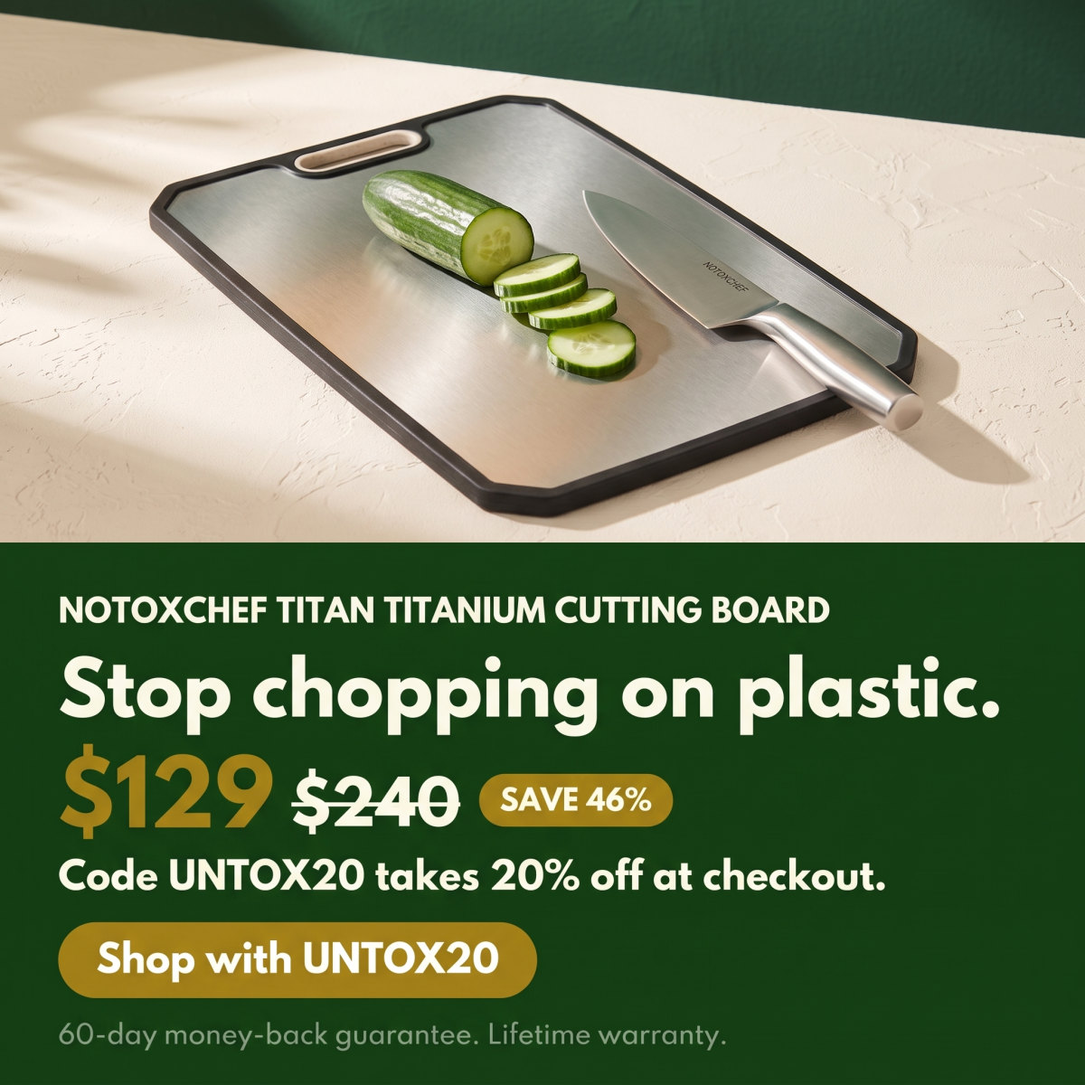
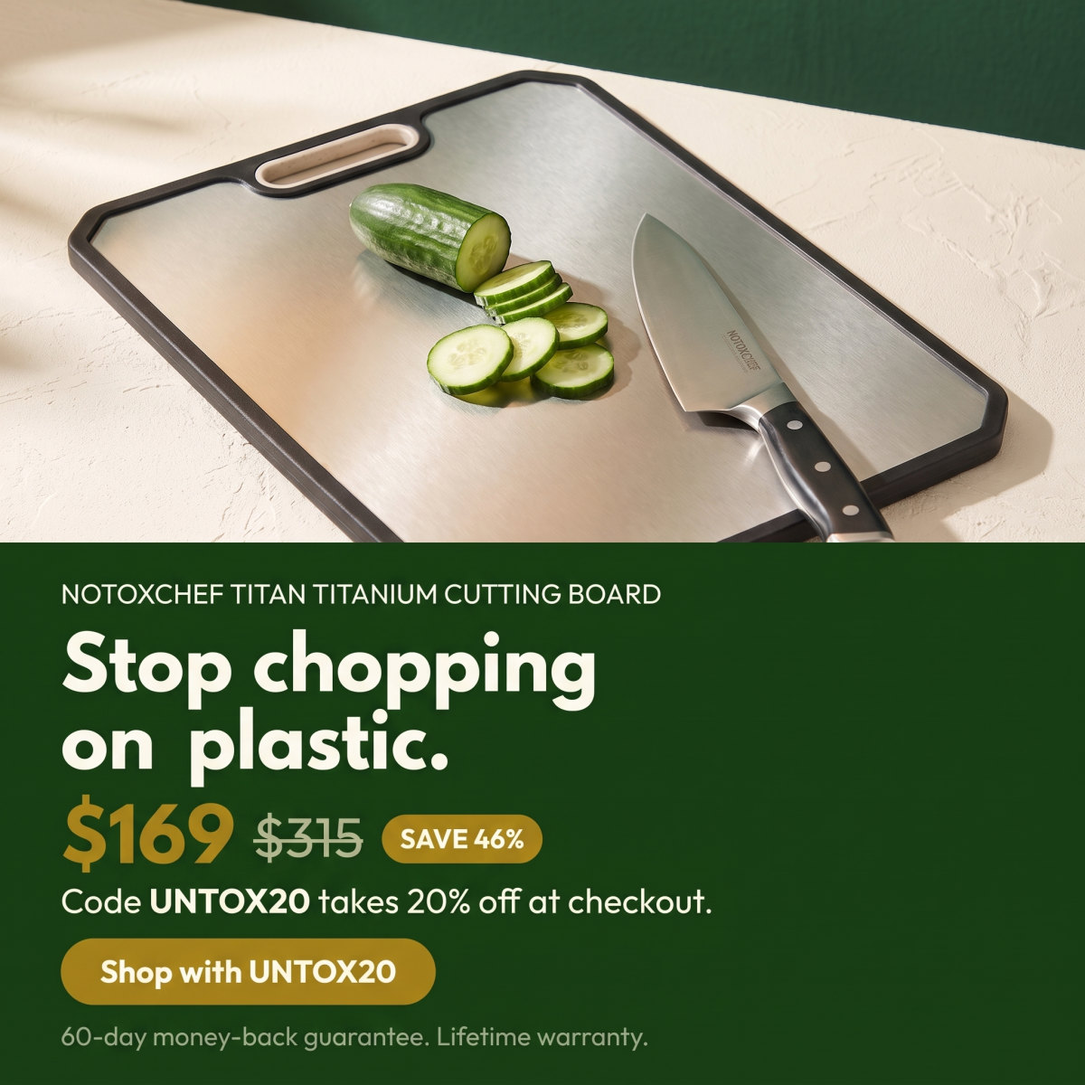
Tap water guide (TEST); all prices corrected to USD; partner placements switched off
- content/tap-water-safety-guide.md with cover, EPA/USGS sources and Titan saucepan placements (kept in Markdown)
- Every guide, spec and ad now uses the Shopify Admin's USD prices; the storefront JSON had been returning GBP-market figures
- banners/titan-saucepan.json + ads; pan, board and Thaw Max ads regenerated
- PARTNER_PLACEMENTS = false until further notice; docs updated

diff --git a/scripts/lib/config.js b/scripts/lib/config.js
@@ -14,7 +14,7 @@ const DEFAULT_SITE_URL = 'https://guides.lifeuntox.com';
 // lockup, the :::promo card and the :::cta block (with their banner images).
 // false = all of them are left out; guides keep their :::promo and :::cta
 // blocks in Markdown so they are ready to switch back on with one rebuild.
-const PARTNER_PLACEMENTS = true;
+const PARTNER_PLACEMENTS = false;
 
 // Reads .env (if present) into process.env without overriding values already set.
 function loadEnv() {

diff --git a/content/tap-water-safety-guide.md b/content/tap-water-safety-guide.md
@@ -1,0 +1,164 @@
+---
+slug: tap-water-safety-guide
+code: TEST               # comment word, searchable, never displayed
+title: The Independent Tap Water Safety Guide
+sub: How to verify and protect your own water supply
+deck: Your water authority says the tap is safe. This guide shows you how to check for yourself, which filters remove lead and PFAS, which pitchers only fix the taste, and the warning signs of aging pipes.
+cat: Water               # Water | Kitchen | Home | Personal care | Family | Food
+added: 2026-09-21
+reads: 0
+badge: Test, filter, protect
+color: "#1a4a1a"         # placeholder book colour until a cover exists
+cover: assets/covers/tap-water-safety-guide-2.png                # set by make-cover
+cover_subject: a clear glass of water being filled from a chrome kitchen tap, with a small white water-testing vial beside it on a light stone counter   # the one photographic subject on the cover
+keywords: [tap water, water test, lead, PFAS, forever chemicals, water filter, reverse osmosis, pitcher filter, chloramine, nitrates, lead pipes, NSF 53, water quality report, well water]
+tags: [lead, PFAS, kids, pregnancy, brain health, kidney health, home safety, well water]   # health and life topics the guide touches, beyond its product category
+desc: The annual water report says "safe" by legal limits, tested at the plant, not your tap. How to test your own water at a certified lab, match a filter to what you find, and read the warning signs of aging pipes.
+partner_product_1: https://notoxchef.com/discount/UNTOX20?redirect=%2Fproducts%2Ftitan-titanium-saucepan    # placement 1 link
+partner_product_2: https://notoxchef.com/discount/UNTOX20?redirect=%2Fproducts%2Ftitan-titanium-saucepan    # placement 2 link
+disclosure: This guide is for education only and is not medical or safety advice. If a test shows lead or another contaminant above the federal limit, contact your water utility and your state drinking water program. Some links are affiliate links; they never change what we recommend.
+---
+
+:::inside
+How to test your own water at a certified lab, the 4 contaminants to test for, which filters remove lead and PFAS and which only fix the taste, the 5 warning signs of aging pipes, and a 9-step protection checklist.
+:::
+
+## You deserve more than a reassuring letter
+
+Every year your local water authority sends a report declaring your tap water safe. It arrives with official letterhead and confident language, and most families file it away without a second glance.
+
+That trust is understandable, and it is also a mistake. The word "safe" in those reports means legal limits, not biological ones. A contaminant can sit just under the legal line and still build up in your body over years of daily drinking.
+
+There is a bigger gap the report rarely mentions. Utilities test at the treatment plant and in the mains, not at your kitchen tap. Everything between the plant and your glass, including your own pipes, is invisible to that letter.
+
+Lead is the clearest example. The EPA states there is [no known safe level of lead](https://www.epa.gov/ground-water-and-drinking-water/basic-information-about-lead-drinking-water) in a child's blood, and lead enters water from household plumbing long after the supply has been tested and cleared.
+
+The only way to know what is in your glass is to test at the tap. This guide gives you the tools: how to test independently, which filters really work, and how to read the warning signs your home is already showing you.
+
+:::warn A test strip cannot see PFAS
+PFAS, the "forever chemicals", sit in water at parts per trillion. No strip or home meter can measure them. A US Geological Survey study found PFAS in [at least 45 percent of the nation's tap water](https://www.usgs.gov/news/national-news-release/tap-water-study-detects-pfas-forever-chemicals-across-us). The only reliable test is a certified lab using EPA Method 533 or 537.1. Any product claiming to detect PFAS with a colour strip is misleading you.
+:::
+
+:::promo
+![NOTOXCHEF Titan Titanium Saucepan: a saucepan with no coating to flake into your water. Code UNTOX20: 20% off at checkout.](assets/banners/titan-saucepan-promo-1.jpg)
+Picture the pasta pot. You tested the tap, you filtered the water, and then it boils in a pan lined with a coating you know nothing about.
+
+A rolling boil is exactly when a worn nonstick coating lets go.
+
+Titan is a hand-hammered titanium saucepan with no coating at all. Nothing to flake into the water, nothing to leach.
+
+$129 for the 7.9-inch, $257 when the sale ends, and code UNTOX20 takes another 20% off at checkout.
+
+[See the Titan saucepan](https://notoxchef.com/discount/UNTOX20?redirect=%2Fproducts%2Ftitan-titanium-saucepan)
+:::
+
+## Part 1: Test your water independently
+
+The single most powerful step you can take is to test your own water at your own tap. It replaces guesswork with hard numbers about what your family drinks, independent of any official assurance.
+
+**Use a certified mail-in lab, not a strip.** The cheap dip strips in hardware stores give vague colour readings that miss the contaminants that matter most. A certified lab analyses a sample from your tap and returns a report measured against real health guidelines. Every state keeps a list of [certified drinking water laboratories](https://www.epa.gov/dwlabcert/contact-information-certification-programs-and-certified-laboratories-drinking-water), and several mail-in services use them.
+
+**Test for the four that matter:**
+
+- **Lead.** The top priority, above all in homes built before 1986, when [lead pipes and lead solder](https://www.epa.gov/ground-water-and-drinking-water/basic-information-about-lead-drinking-water) were still allowed.
+- **PFAS.** The forever chemicals now found in nearly half of US tap water. The EPA set the first [national limits for PFAS](https://www.epa.gov/sdwa/and-polyfluoroalkyl-substances-pfas) in 2024, and utilities have until 2029 to meet them.
+- **Chlorine and chloramine.** The disinfectants that keep water safe in the mains, and that many families prefer to filter out at the tap.
+- **Nitrates.** Vital on well water and in farming areas. The federal limit is [10 milligrams per litre](https://www.epa.gov/ground-water-and-drinking-water/national-primary-drinking-water-regulations), and infants are the most at risk.
+
+**When to test.** Test once to set a baseline, then once a year, or any time the taste, colour or smell changes. An older home or recent plumbing work makes testing more urgent, not less.
+
+**Three certified mail-in kits we recommend:**
+
+- [Tap Score by SimpleLab](https://mytapscore.com): prepaid kits analysed at certified labs, with plain-English reports. Its general panel covers lead and more than 100 other analytes, and its PFAS kit uses EPA Method 533 or 1633.
+- [Safe Home Ultimate](https://safehometestkits.com): screens for more than 200 contaminants, including lead, PFAS, arsenic, nitrate and bacteria, at the company's own EPA-certified lab.
+- [National Testing Laboratories Watercheck](https://www.watercheck.com): bundles PFAS with lead, metals and bacteria in one certified test.
+
+**A free option worth checking first.** Several states, including New York, Colorado and New Hampshire, offer free PFAS testing for private well owners. Call your state health department and ask for the private well program.
+
+:::gate Get the filter chart, the warning signs and the checklist, free
+
+## Part 2: Choose a filter that works
+
+Once you know what is in your water, the next step is removing it. This is where most families waste money. The popular pitcher on every counter was designed to improve taste, not to remove the contaminants you care about.
+
+:::table
+| Filter type | What it does well | The catch |
+|---|---|---|
+| Standard pitcher (a basic Brita) | Improves taste, reduces chlorine | Does not reliably remove lead or PFAS |
+| Certified lead and PFAS pitcher | Removes lead, PFAS and many metals | Slower flow, regular cartridge changes |
+| Reverse osmosis (countertop or under sink) | Widest removal: PFAS, lead, fluoride, nitrates | Higher cost, wastes some water |
+| Activated carbon block | Strong PFAS and chlorine reduction | Only trust it with an NSF certification |
+| Whole-house filtration | Protects every tap, including showers | Real installation cost |
+:::
+
+**The pitcher trap.** A standard pitcher improves the taste of your water by reducing chlorine, and that is where its power ends. If your test showed lead or PFAS, you need a filter certified to remove them, not a taste filter.
+
+**How to check a filter's claim.** Look for NSF/ANSI numbers on the box. NSF 53 covers lead reduction, NSF 58 covers reverse osmosis, and PFAS claims are tested under 53 or 58. Before you trust any box, check the [NSF certified product listings](https://info.nsf.org/Certified/DWTU/listings_leadreduction.asp). No number, no trust.
+
+**Certified filters worth considering:**
+
+- **Pitchers, no installation.** [Clearly Filtered](https://www.clearlyfiltered.com) carries NSF 42, 53 and 244 with independent testing for PFAS, lead and fluoride; the strongest pitcher for renters. [Brita Elite](https://www.brita.com), the blue filter, is the budget lead option, certified to NSF 42, 53 and 401 for lead. It does not claim PFAS or fluoride, and it is not the cheaper Standard filter.
+- **Reverse osmosis, the strongest removal.** [AquaTru Classic](https://aquatru.com) is a countertop system that needs no plumbing, listed to NSF 42, 53, 58, 401 and 372, with independent testing above 99 percent for PFOA and PFOS. [APEC ROES-50](https://www.apecwater.com) is a budget under-sink system certified to NSF 58.
+- **Whole house, every tap.** [SpringWell CF](https://www.springwellwater.com) is a catalytic carbon system that protects every tap at high flow. Confirm the current certification for your contaminant before buying, because whole-house carbon coverage varies.
+
+## Part 3: The warning signs of aging pipes
+
+Your home gives you clues about its plumbing every day. Reading them makes you your own first line of defence, and catches problems long before a lab report or a symptom does.
+
+- **Discoloured water.** Brown or yellow tints, above all first thing in the morning, point to rust and corrosion inside old iron or galvanised pipes.
+- **A metallic taste.** A distinct metal flavour usually means metals are dissolving out of your plumbing.
+- **Frequent repairs.** A pattern of leaks and patches means the pipes are near the end of their life.
+- **A home built before 1986.** It can still have lead pipes or lead solder at the joints.
+- **Stains around fixtures.** Blue-green stains mean copper corrosion; rust-coloured stains mean iron.
+
+**Know your service line.** The most useful fact about your home is whether the pipe from the street is lead. Since late 2024 every water utility has had to publish a [lead service line inventory](https://www.epa.gov/ground-water-and-drinking-water/lead-service-line-replacement), and most now offer an address lookup. You have every right to that answer.
+
+**The morning flush rule.** Water that sits in pipes overnight has the longest contact with lead and other metals. If your plumbing is old, [run the cold tap](https://www.epa.gov/ground-water-and-drinking-water/protect-your-tap-quick-check-lead) for 30 seconds to 2 minutes each morning before drinking or cooking, until a certified filter is in place. Never use hot tap water for drinking, cooking or baby formula; heat pulls more lead from pipes.
+
+## Your water protection checklist
+
+:::protocol
+Save this page or print it. Working through the steps in order gives your family independent, verified protection that no annual letter can offer.
+
+1. **Order a certified mail-in test** and collect the sample from the kitchen tap, first draw in the morning.
+2. **Test for lead, PFAS, chlorine and nitrates** at minimum. Add bacteria and arsenic on well water.
+3. **Look up your home's build year** and check the utility's inventory for a lead service line.
+4. **Match a certified filter** to the contaminants your test found, and confirm the NSF number on the box.
+5. **Run the cold tap each morning** until the filter is installed, and never cook with hot tap water.
+6. **Watch for the five signs**: discoloured water, metallic taste, repeat repairs, pre-1986 plumbing, stained fixtures.
+7. **Replace cartridges on the maker's schedule.** A spent filter stops removing lead and PFAS without any change in taste.
+8. **Read the annual report properly.** Your utility must send a [Consumer Confidence Report](https://www.epa.gov/ccr) each July; look for any contaminant listed above its limit.
+9. **Retest once a year**, or sooner if the taste, colour or smell changes.
+:::
+
+:::cta You just took charge of your water. Do not boil it in a mystery coating.
+![NOTOXCHEF Titan Titanium Saucepan: hand-hammered titanium, no coating, lifetime warranty. Code UNTOX20: 20% off at checkout.](assets/banners/titan-saucepan-cta-1.jpg)
+Here is the quiet truth about the pot you boil water in. Nonstick coatings wear fastest at high heat, and a saucepan lives at high heat.
+
+Every scratch you can see is coating that has already left the pan, and the water you filtered carried it to the table.
+
+Titan is the other way: a hand-hammered titanium saucepan with no coating to wear off, so there is nothing to flake and nothing to leach.
+
+That is why it passes the Lifeuntox Standard. Two pouring lips, a free matching lid, and it simmers a sauce as well as it boils an egg.
+
+Right now the 7.9-inch is $129 instead of $257, and code UNTOX20 takes another 20% off at checkout while the sale runs.
+
+The risk sits with NOTOXCHEF, not you: 60 days to return it for a full refund, then a lifetime warranty.
+
+Order it today, and the water you worked so hard to clean stays clean all the way to the table.
+
+[Get the Titan saucepan with UNTOX20](https://notoxchef.com/discount/UNTOX20?redirect=%2Fproducts%2Ftitan-titanium-saucepan)
+:::
+
+## Sources
+
+1. [US EPA: Basic information about lead in drinking water](https://www.epa.gov/ground-water-and-drinking-water/basic-information-about-lead-drinking-water)
+2. [US Geological Survey: Tap water study detects PFAS "forever chemicals" across the US (2023)](https://www.usgs.gov/news/national-news-release/tap-water-study-detects-pfas-forever-chemicals-across-us)
+3. [US EPA: Per- and polyfluoroalkyl substances (PFAS) under the Safe Drinking Water Act, the 2024 national limits](https://www.epa.gov/sdwa/and-polyfluoroalkyl-substances-pfas)
+4. [US EPA: PFAS drinking water laboratory methods (533, 537.1)](https://www.epa.gov/pfas/epa-pfas-drinking-water-laboratory-methods)
+5. [US EPA: Certification programs and certified laboratories for drinking water](https://www.epa.gov/dwlabcert/contact-information-certification-programs-and-certified-laboratories-drinking-water)
+6. [US EPA: National primary drinking water regulations (the nitrate limit)](https://www.epa.gov/ground-water-and-drinking-water/national-primary-drinking-water-regulations)
+7. [US EPA: Lead service line replacement and inventories](https://www.epa.gov/ground-water-and-drinking-water/lead-service-line-replacement)
+8. [US EPA: Protect your tap, a quick check for lead](https://www.epa.gov/ground-water-and-drinking-water/protect-your-tap-quick-check-lead)
+9. [US EPA: Consumer Confidence Reports](https://www.epa.gov/ccr)
+10. [NSF certified product listings for lead reduction](https://info.nsf.org/Certified/DWTU/listings_leadreduction.asp)

diff --git a/CLAUDE.md b/CLAUDE.md
@@ -204,13 +204,13 @@ Both pages get their header and footer from `nav.json` at build time (`{{HEADER}
 
 ### Sponsor placements switch
 
-`PARTNER_PLACEMENTS` in `scripts/lib/config.js` is currently **true**: every guide shows the NOTOXCHEF header lockup, the `:::promo` card and the `:::cta` block, each with its banner ad. Set it to false and rebuild to hide all of them; guides keep their `:::promo` and `:::cta` blocks in Markdown either way (the design system and `check-guide` require them). While it is off, `check-guide` fails if "NOTOXCHEF" appears on a built page; while it is on, it fails if the header lockup is missing.
+`PARTNER_PLACEMENTS` in `scripts/lib/config.js` is currently **false** (switched off on 2026-09-21 at the user's request, until they say otherwise): the build leaves out the NOTOXCHEF header lockup, the `:::promo` card and the `:::cta` block on every guide. Set it to true and rebuild to show all of them again, ads included; guides keep their `:::promo` and `:::cta` blocks in Markdown either way (the design system and `check-guide` require them). While it is off, `check-guide` fails if "NOTOXCHEF" appears on a built page; while it is on, it fails if the header lockup is missing.
 
 ### Partner ads (square) and the copy standard
 
-Ads are **square, 1:1, 1200×1200**, never wide banners. On every screen size the ad comes first at the full width of the card, and the partner mark (the NOTOXCHEF logo, `site/assets/notoxchef-logo.png`, with "Official partner of Lifeuntox"), the copy and the button sit under it. The current campaign is the **Thaw Max Defrosting Tray** (`banners/thaw-max.json`): $60, compare-at $161, 60-day money-back guarantee, lifetime warranty (the chicken and beef guides). Two more campaigns for the guides that came from the PDF lead magnets: the **Titan Titanium Pan** (`banners/titan-pan.json`, $118 everyday size, compare-at $247; cleaning and pantry guides) and the **Titan Double-Side Titanium Cutting Board** (`banners/titan-board.json`, $129, compare-at $240; bathroom guide), both bought through the store's real **UNTOX20** code (20% off, no end date) via `notoxchef.com/discount/UNTOX20?redirect=...`. Each guide uses `<campaign>-promo-1.jpg` in the promo and `<campaign>-cta-1.jpg` in the CTA, and its placement copy quotes the same prices.
+Ads are **square, 1:1, 1200×1200**, never wide banners. On every screen size the ad comes first at the full width of the card, and the partner mark (the NOTOXCHEF logo, `site/assets/notoxchef-logo.png`, with "Official partner of Lifeuntox"), the copy and the button sit under it. The current campaign is the **Thaw Max Defrosting Tray** (`banners/thaw-max.json`): $79, compare-at $211, 60-day money-back guarantee, lifetime warranty (the chicken and beef guides). Two more campaigns for the guides that came from the PDF lead magnets: the **Titan Titanium Pan** (`banners/titan-pan.json`, $155 everyday size, compare-at $325; cleaning and pantry guides) and the **Titan Double-Side Titanium Cutting Board** (`banners/titan-board.json`, $169, compare-at $315; bathroom guide), and the **Titan Titanium Saucepan** (`banners/titan-saucepan.json`, $129 for the 7.9-inch, compare-at $257; water guide), both bought through the store's real **UNTOX20** code (20% off, no end date) via `notoxchef.com/discount/UNTOX20?redirect=...`. Each guide uses `<campaign>-promo-1.jpg` in the promo and `<campaign>-cta-1.jpg` in the CTA, and its placement copy quotes the same prices.
 
-**Placement copy must sell.** Write the `:::promo` and `:::cta` text the way the great direct-response copywriters would (Hopkins, Ogilvy, Schwartz, Halbert, Sugarman, Bencivenga, Kennedy): open on a vivid picture of the reader's problem tonight, agitate it with a specific consequence, present the product as the clean way out, give proof (what it is made of, what it passes), state the real price and the real guarantee as risk reversal, and close with one plain call to act now. Emotional, specific, honest: no invented deadlines or stock counts, no exclamation marks, no first person singular, no ALL CAPS. Space the copy out: every paragraph in a placement is two lines at most (about 150 characters; `check-guide` fails above that). The promo is moderate (four short paragraphs); the CTA is stronger (the quiet truth, the third way, the offer, the call). The ad headline in the spec should carry the same idea in six words or fewer. Prices are baked into the images and the copy, so when the store price changes: edit the spec, run `npm run banner -- thaw-max`, pick the options, and update the two price sentences in each guide. Urgency in the banners comes only from the compare-at price ("$60 today. $161 when the sale ends.") and a real code; never add a deadline or a stock count that is not on the product page. Check the store price (`curl notoxchef.com/products/<handle>.json`) at the start of every round.
+**Placement copy must sell.** Write the `:::promo` and `:::cta` text the way the great direct-response copywriters would (Hopkins, Ogilvy, Schwartz, Halbert, Sugarman, Bencivenga, Kennedy): open on a vivid picture of the reader's problem tonight, agitate it with a specific consequence, present the product as the clean way out, give proof (what it is made of, what it passes), state the real price and the real guarantee as risk reversal, and close with one plain call to act now. Emotional, specific, honest: no invented deadlines or stock counts, no exclamation marks, no first person singular, no ALL CAPS. Space the copy out: every paragraph in a placement is two lines at most (about 150 characters; `check-guide` fails above that). The promo is moderate (four short paragraphs); the CTA is stronger (the quiet truth, the third way, the offer, the call). The ad headline in the spec should carry the same idea in six words or fewer. Prices are baked into the images and the copy, so when the store price changes: edit the spec, run `npm run banner -- thaw-max`, pick the options, and update the two price sentences in each guide. Urgency in the banners comes only from the compare-at price ("$79 today. $211 when the sale ends.") and a real code; never add a deadline or a stock count that is not on the product page. **Read prices from the Shopify Admin (the NOTOXCHEF store connector, `price` and `compareAtPrice`), never from `notoxchef.com/products/<handle>.json` fetched from this machine: that endpoint returns the GBP-market numbers for a UK visitor without a currency sign, and the site's readers are in the US.** Check them at the start of every round.
 
 ### Rules for working in this repo
 

diff --git a/content/safe-beef-buyers-guide.md b/content/safe-beef-buyers-guide.md
@@ -40,14 +40,14 @@ The fix is not to give up beef. The fix is to read the pack like an inspector an
 :::
 
 :::promo
-![NOTOXCHEF Thaw Max Defrosting Tray: your microwave is ruining good meat. $60 today, $161 when the sale ends.](assets/banners/thaw-max-promo-1.jpg)
+![NOTOXCHEF Thaw Max Defrosting Tray: your microwave is ruining good meat. $79 today, $211 when the sale ends.](assets/banners/thaw-max-promo-1.jpg)
 Picture tonight. The steak you chose so carefully is still a brick at six.
 
 So it goes in the microwave, and comes out grey at the edges and frozen in the middle.
 
 Thaw Max ends that for good: a slab of plain aluminum, no coating, no cord, that pulls the cold out in the fridge far faster than any plate.
 
-$60 today, $161 when the sale ends. 60 days to send it back if it does not earn its place.
+$79 today, $211 when the sale ends. 60 days to send it back if it does not earn its place.
 
 [Claim the sale price](https://notoxchef.com/products/thaw-max-defrosting-tray?variant=55005333553479)
 :::
@@ -121,7 +121,7 @@ A butcher who buys whole cuts from a named packer can answer all three in a minu
 :::
 
 :::cta You just learned to buy better beef. Do not ruin it in the microwave.
-![NOTOXCHEF Thaw Max Defrosting Tray: thaw it clean, never microwave again. $60 today, $161 when the sale ends.](assets/banners/thaw-max-cta-1.jpg)
+![NOTOXCHEF Thaw Max Defrosting Tray: thaw it clean, never microwave again. $79 today, $211 when the sale ends.](assets/banners/thaw-max-cta-1.jpg)
 Here is the quiet truth about frozen meat. The microwave does not thaw it, it starts cooking it.
 
 The edges turn grey and tough while the centre stays ice, and the beef you paid extra for ends up chewy.
@@ -132,13 +132,13 @@ Thaw Max is the third way: a slim slab of plain aluminum, no coating, no cord, n
 
 That is why it passes the Lifeuntox Standard. Lay tonight's steak on it in the fridge and the metal pulls the cold out far faster than a plate.
 
-Right now it is $60 instead of $161, and that price goes when the sale ends.
+Right now it is $79 instead of $211, and that price goes when the sale ends.
 
 The risk sits with NOTOXCHEF, not you: 60 days to return it for a full refund, and a lifetime warranty after that.
 
 Order it today, and the next steak you buy gets the thaw it deserves.
 
-[Get the Thaw Max for $60](https://notoxchef.com/products/thaw-max-defrosting-tray?variant=55005333553479)
+[Get the Thaw Max for $79](https://notoxchef.com/products/thaw-max-defrosting-tray?variant=55005333553479)
 :::
 
 ## Sources

diff --git a/content/clean-meat-directory.md b/content/clean-meat-directory.md
@@ -38,14 +38,14 @@ If the package does not say **"air-chilled"**, assume the chicken was water-chil
 :::
 
 :::promo
-![NOTOXCHEF Thaw Max Defrosting Tray: your microwave is ruining good meat. $60 today, $161 when the sale ends.](assets/banners/thaw-max-promo-1.jpg)
+![NOTOXCHEF Thaw Max Defrosting Tray: your microwave is ruining good meat. $79 today, $211 when the sale ends.](assets/banners/thaw-max-promo-1.jpg)
 Every bird on this list ships frozen, and this is where good chicken goes wrong.
 
 A microwave defrost turns the edges rubbery while the middle stays ice.
 
 Thaw Max is a slab of plain aluminum, no coating, no cord, that pulls the cold out in the fridge far faster than any plate.
 
-$60 today, $161 when the sale ends. 60 days to send it back if it does not earn its place.
+$79 today, $211 when the sale ends. 60 days to send it back if it does not earn its place.
 
 [Claim the sale price](https://notoxchef.com/products/thaw-max-defrosting-tray?variant=55005333553479)
 :::
@@ -161,7 +161,7 @@ Shopping somewhere that stocks none of these? Use this four-step test.
 :::
 
 :::cta You just chose chicken with no chlorine bath. Do not ruin it in the microwave.
-![NOTOXCHEF Thaw Max Defrosting Tray: thaw it clean, never microwave again. $60 today, $161 when the sale ends.](assets/banners/thaw-max-cta-1.jpg)
+![NOTOXCHEF Thaw Max Defrosting Tray: thaw it clean, never microwave again. $79 today, $211 when the sale ends.](assets/banners/thaw-max-cta-1.jpg)
 You went to the trouble of finding air-chilled chicken. Then the microwave undoes the work.
 
 Rubbery edges, an icy middle, and the juice that should have stayed in the meat pooling on the plate.
@@ -172,13 +172,13 @@ Thaw Max is the third way: a slim slab of plain aluminum, no coating, no cord, n
 
 That is why it passes the Lifeuntox Standard. Lay tonight's chicken on it in the fridge and the metal pulls the cold out far faster than a plate.
 
-Right now it is $60 instead of $161, and that price goes when the sale ends.
+Right now it is $79 instead of $211, and that price goes when the sale ends.
 
 The risk sits with NOTOXCHEF, not you: 60 days to return it for a full refund, and a lifetime warranty after that.
 
 Order it today, and the next bird you buy gets the thaw it deserves.
 
-[Get the Thaw Max for $60](https://notoxchef.com/products/thaw-max-defrosting-tray?variant=55005333553479)
+[Get the Thaw Max for $79](https://notoxchef.com/products/thaw-max-defrosting-tray?variant=55005333553479)
 :::
 
 ## Sources

diff --git a/DECISIONS.md b/DECISIONS.md
@@ -180,3 +180,6 @@ Your note "for next time" is recorded as a standing rule set (CLAUDE.md, "Defini
 3. **Partner products come from the PDFs' own links**: the Titan Titanium Pan (cleaning and pantry guides; the cleaning PDF's kitchen recommendation had no link, so it shares the pan) and the Titan Double-Side Titanium Cutting Board (bathroom guide), both through the store's `UNTOX20` code. The code was verified in the connected Shopify store: 20% off, active, no end date, so the copy states it. Two new ad campaigns (`banners/titan-pan.json`, `banners/titan-board.json`) use the store's own product photos as references; `make-banner` now takes the product-matching wording from the spec instead of the script.
 4. **Thaw Max price drift.** The store's compare-at price moved from $159 to $161 since the ads were made, so the two existing guides, the spec and the ads were updated (63% off). A price check is now part of the round checklist in CLAUDE.md.
 5. **Bathroom swaps link to the brands' own pages** as the PDF did; they are buy links, not sources, so the lint's non-.gov warning is expected there.
+6. **Every price was wrong by a currency, now fixed.** The product prices had been read with `curl notoxchef.com/products/<handle>.json`, which from this UK machine returns Shopify's GBP-market figures (Thaw Max 60 / 161, pan 118 / 247, board 129 / 240) with no currency sign, and they were printed as dollars. The Shopify Admin holds the base USD prices US readers see: Thaw Max compact $79 / $211, Titan pan 10.2-inch $155 / $325, Titan board $169 / $315, Titan saucepan 7.9-inch $129 / $257. All copy, specs and ads were redone with the USD figures; the discount percentages happen to be unchanged because the difference was a conversion. CLAUDE.md now says to read prices from the Admin connector.
+7. **Tap water guide added** from the fourth PDF with the comment word you gave (TEST). Its partner product is the Titan Titanium Saucepan, the design system's honest bridge for water (the pot you boil it in); the PDF itself carried no product link. Its sources are EPA, USGS and the NSF listings; the kit and filter links are the PDF's own.
+8. **All partner placements switched off again** (`PARTNER_PLACEMENTS = false`) on your instruction the same evening, until you say otherwise. The guides keep their `:::promo` and `:::cta` blocks, the ads and the specs, so one flag and a rebuild bring everything back with the prices already corrected.

diff --git a/content/tox-free-bathroom-swap-guide.md b/content/tox-free-bathroom-swap-guide.md
@@ -47,7 +47,7 @@ Think about the plastic board every vegetable in your house is chopped on, and t
 
 Titan is a cutting board with a solid titanium face: no plastic under the knife, no stain, no smell, and it wipes clean in seconds.
 
-$129 today, $240 when the sale ends, and code UNTOX20 takes another 20% off at checkout.
+$169 today, $315 when the sale ends, and code UNTOX20 takes another 20% off at checkout.
 
 [See the Titan board](https://notoxchef.com/discount/UNTOX20?redirect=%2Fproducts%2Ftitan-double-side-titanium-cutting-board%3Fvariant%3D55005332537671)
 :::
@@ -129,7 +129,7 @@ Titan is the other way: a board with a solid titanium face, so the knife meets m
 
 That is why it passes the Lifeuntox Standard. It wipes clean in seconds, never holds a smell, and the carry slot takes it straight to the sink.
 
-Right now it is $129 instead of $240, and code UNTOX20 takes another 20% off at checkout while the sale runs.
+Right now it is $169 instead of $315, and code UNTOX20 takes another 20% off at checkout while the sale runs.
 
 The risk sits with NOTOXCHEF, not you: 60 days to return it for a full refund, then a lifetime warranty.
 

diff --git a/content/pantry-magic-matrix.md b/content/pantry-magic-matrix.md
@@ -47,7 +47,7 @@ Then the spatula scrapes the pan, and a fleck of nonstick coating goes into the 
 
 Titan is hand-hammered titanium with no coating at all. Nothing to flake, nothing to leach, nothing between the food and the metal.
 
-$118 for the everyday size, $247 when the sale ends, and code UNTOX20 takes another 20% off at checkout.
+$155 for the everyday size, $325 when the sale ends, and code UNTOX20 takes another 20% off at checkout.
 
 [See the Titan pan](https://notoxchef.com/discount/UNTOX20?redirect=%2Fproducts%2Ftitan-titanium-pan)
 :::
@@ -134,7 +134,7 @@ Titan is the third way: a hand-hammered titanium pan with no coating to wear off
 
 That is why it passes the Lifeuntox Standard. Warm it gently, add a little butter, and your pancakes brown the way they should.
 
-Right now the everyday size is $118 instead of $247, and code UNTOX20 takes another 20% off at checkout while the sale runs.
+Right now the everyday size is $155 instead of $325, and code UNTOX20 takes another 20% off at checkout while the sale runs.
 
 The risk sits with NOTOXCHEF, not you: 60 days to return it for a full refund, then a lifetime warranty.
 

diff --git a/content/natural-cleaning-mixology-cheat-sheet.md b/content/natural-cleaning-mixology-cheat-sheet.md
@@ -47,7 +47,7 @@ Every scrub lifts a little more of that coating, and the flakes end up in the fo
 
 Titan is hand-hammered titanium with no coating at all. Scrub it, scour it, let the kids wash it. There is nothing on it to come off.
 
-$118 for the everyday size, $247 when the sale ends, and code UNTOX20 takes another 20% off at checkout.
+$155 for the everyday size, $325 when the sale ends, and code UNTOX20 takes another 20% off at checkout.
 
 [See the Titan pan](https://notoxchef.com/discount/UNTOX20?redirect=%2Fproducts%2Ftitan-titanium-pan)
 :::
@@ -123,7 +123,7 @@ Titan is the other way: a hand-hammered titanium pan with no coating to wear off
 
 That is why it passes the Lifeuntox Standard. Warm it gently, add a little oil, and it browns like a proper pan should.
 
-Right now the everyday size is $118 instead of $247, and code UNTOX20 takes another 20% off at checkout while the sale runs.
+Right now the everyday size is $155 instead of $325, and code UNTOX20 takes another 20% off at checkout while the sale runs.
 
 The risk sits with NOTOXCHEF, not you: 60 days to return it for a full refund, then a lifetime warranty.
 
